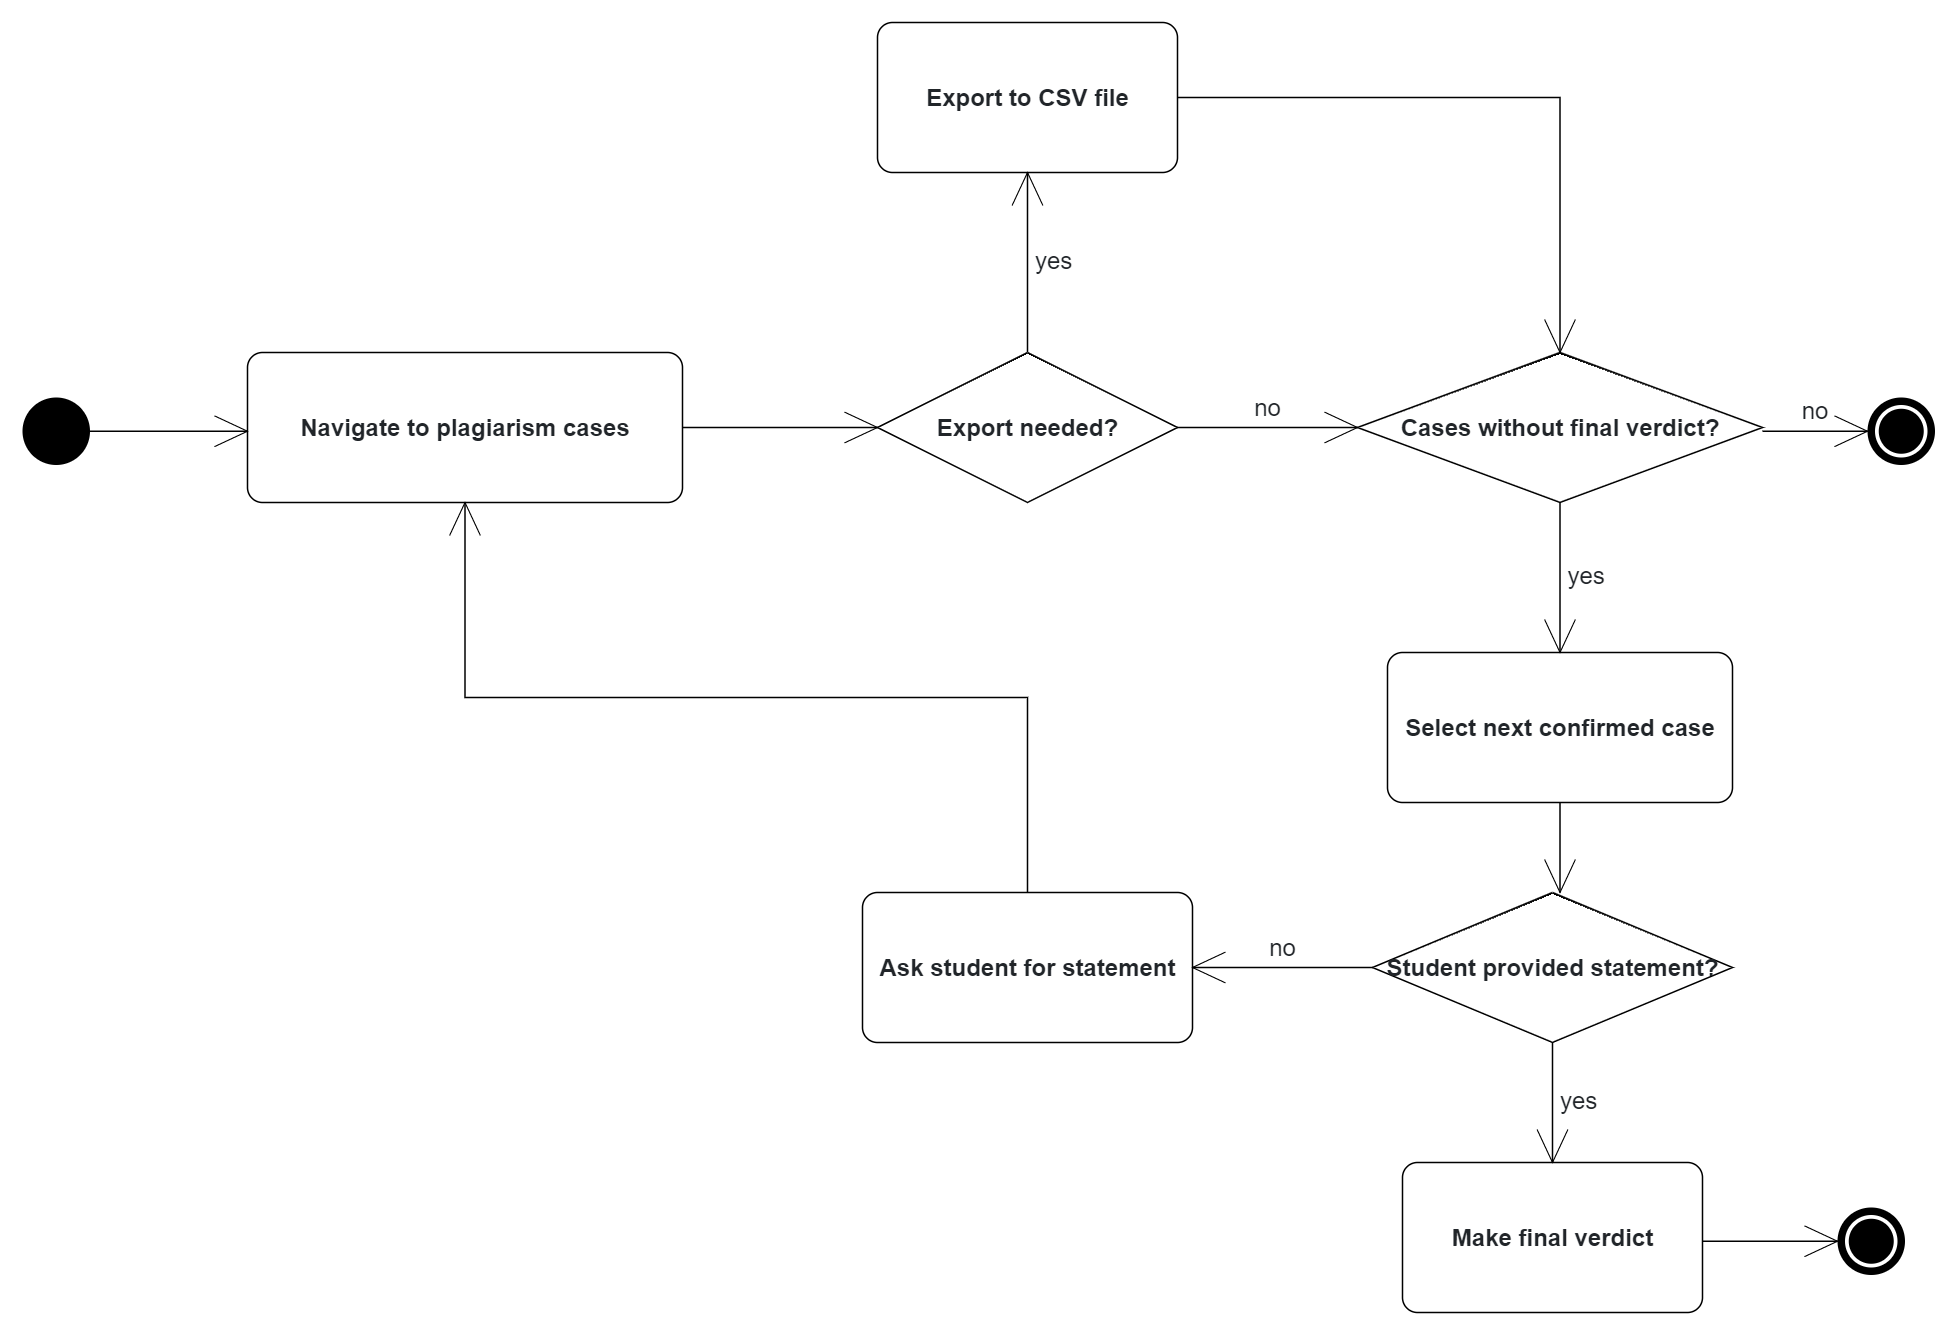
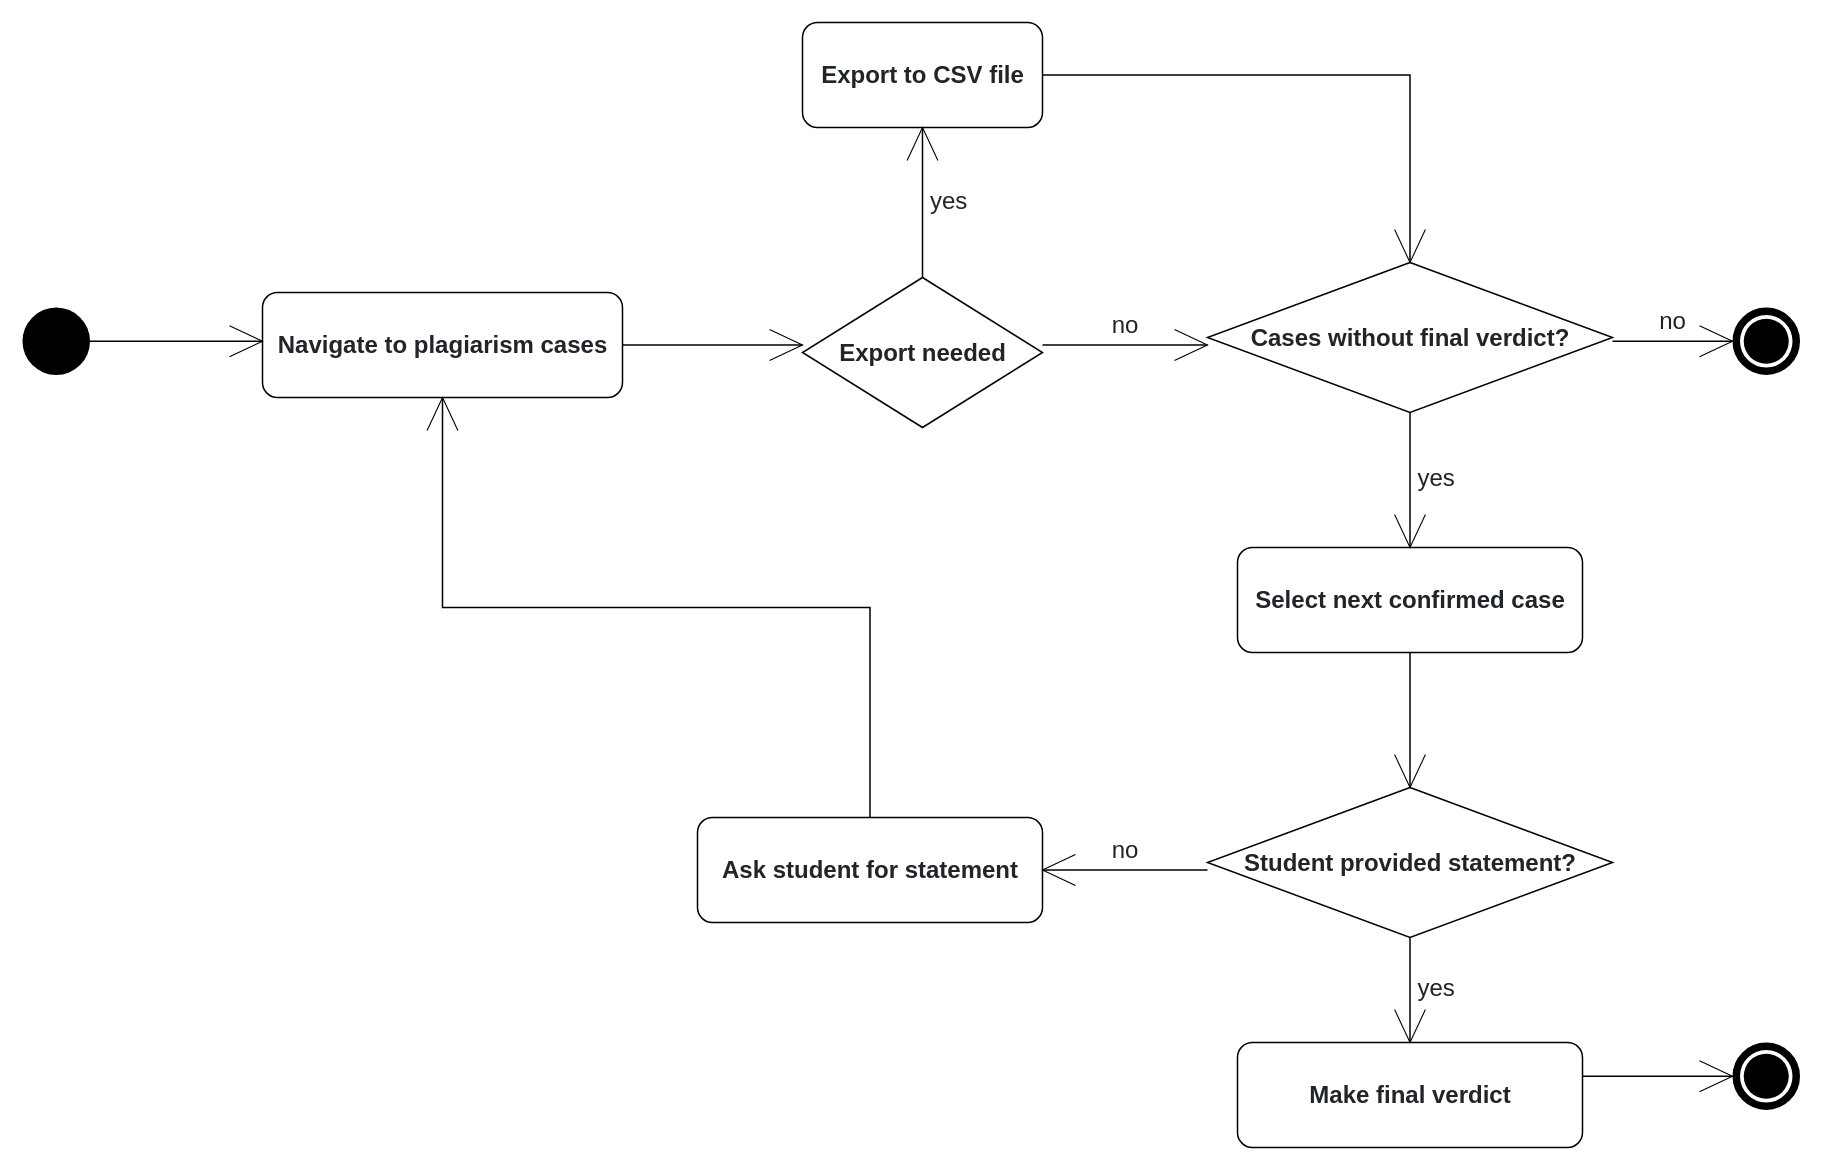
Development: Migrate plagiarism check UML diagrams to Apollon format (#10222)

diff --git a/docs/user/plagiarism-check.rst b/docs/user/plagiarism-check.rst
@@ -301,8 +301,12 @@ the student can dispute the case within the period configured by the instructor.
     :width: 500
 .. |student-notification| image:: plagiarism-check/instructor/student-notification.png
     :width: 500
+.. Diagram created with the Apollon VSCode extension (https://marketplace.visualstudio.com/items?itemName=TUMAET.apollon-vscode)
+   Respective .apollon file is plagiarism-check/instructor/instructors-workflow.apollon
 .. |instructors-workflow| image:: plagiarism-check/instructor/instructors-workflow.png
     :width: 700
+.. Diagram created with the Apollon VSCode extension (https://marketplace.visualstudio.com/items?itemName=TUMAET.apollon-vscode)
+   Respective .apollon file is plagiarism-check/tutor/tutor-workflow.apollon
 .. |tutor-workflow| image:: plagiarism-check/tutor/tutor-workflow.png
     :width: 700
 .. |run-settings| image:: plagiarism-check/tutor/running-check-settings.png
@@ -311,6 +315,8 @@ the student can dispute the case within the period configured by the instructor.
     :width: 1000
 .. |student-plagiarism-case-navigation| image:: plagiarism-check/student/plagiarism-case-navigation.png
     :width: 1000
+.. Diagram created with the Apollon VSCode extension (https://marketplace.visualstudio.com/items?itemName=TUMAET.apollon-vscode)
+   Respective .apollon file is plagiarism-check/student/student-workflow.apollon
 .. |student-workflow| image:: plagiarism-check/student/student-workflow.png
     :width: 700
 .. |run-results| image:: plagiarism-check/results/run-results.png
